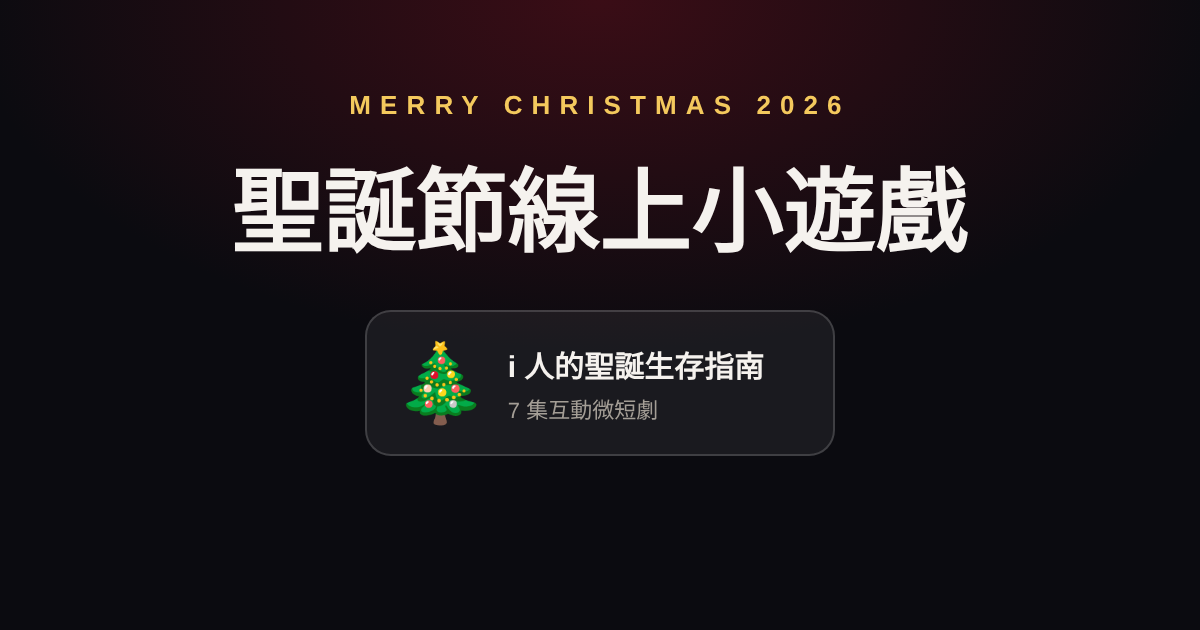
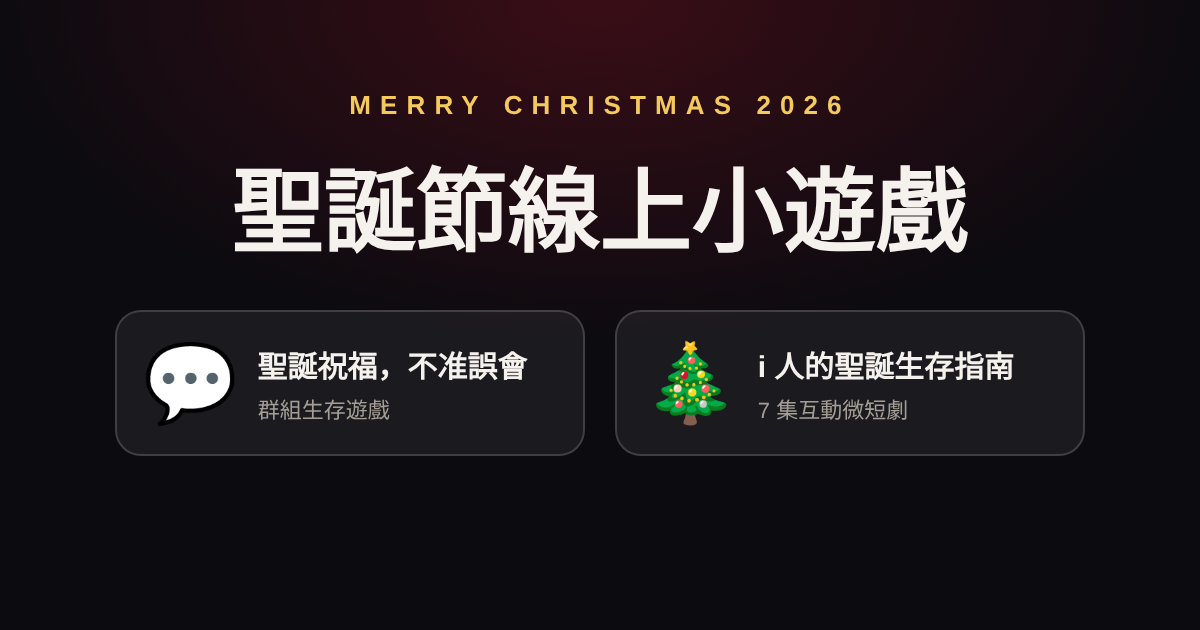
Add files via upload

diff --git a/xmas-message.html b/xmas-message.html
@@ -1,0 +1,229 @@
+<!DOCTYPE html>
+<html lang="zh-Hant">
+<head>
+<meta charset="UTF-8">
+<meta name="viewport" content="width=device-width, initial-scale=1, maximum-scale=1">
+<meta name="description" content="同一句聖誕快樂，阿嬤、二姑、主管、前任讀到的都不一樣。拼出一句讓全群組沒人誤會的祝福！">
+<meta property="og:type" content="website">
+<meta property="og:locale" content="zh_TW">
+<meta property="og:site_name" content="聖誕節線上小遊戲 2026">
+<meta property="og:title" content="聖誕祝福，不准誤會 💬｜群組生存遊戲">
+<meta property="og:description" content="同一句聖誕快樂，阿嬤、二姑、主管、前任讀到的都不一樣。拼出一句讓全群組沒人誤會的祝福！">
+<meta property="og:url" content="https://vuraly7-dev.github.io/xmas-2026/xmas-message.html">
+<meta property="og:image" content="https://vuraly7-dev.github.io/xmas-2026/og-message.png">
+<meta property="og:image:width" content="1200">
+<meta property="og:image:height" content="630">
+<meta name="twitter:card" content="summary_large_image">
+<meta name="twitter:title" content="聖誕祝福，不准誤會 💬｜群組生存遊戲">
+<meta name="twitter:description" content="同一句聖誕快樂，阿嬤、二姑、主管、前任讀到的都不一樣。拼出一句讓全群組沒人誤會的祝福！">
+<meta name="twitter:image" content="https://vuraly7-dev.github.io/xmas-2026/og-message.png">
+<meta name="theme-color" content="#0f2a20">
+<title>聖誕祝福，不准誤會｜群組生存遊戲</title>
+<link rel="preconnect" href="https://fonts.googleapis.com">
+<link href="https://fonts.googleapis.com/css2?family=Noto+Sans+TC:wght@400;500;700;900&family=Noto+Serif+TC:wght@900&display=swap" rel="stylesheet">
+<style>
+:root{--bg:#e9eef3;--me:#9be27a;--red:#d7263d;--green:#1f8a5b;--ink:#1c2228;--muted:#7a8590;--gold:#f2b632}
+*{box-sizing:border-box;margin:0;padding:0;-webkit-tap-highlight-color:transparent}
+html,body{height:100%}
+body{font-family:"Noto Sans TC",system-ui,sans-serif;color:var(--ink);background:#cfd8e0}
+.app{max-width:520px;height:100%;margin:0 auto;display:flex;flex-direction:column;background:var(--bg);position:relative;overflow:hidden}
+/* cover */
+.cover{position:absolute;inset:0;z-index:20;display:flex;flex-direction:column;justify-content:center;padding:28px 24px;
+  background:radial-gradient(ellipse at 50% 0%,#2a5a45,#0f2a20 70%);color:#fff;text-align:center}
+.cover .k{font-size:12px;letter-spacing:.3em;color:var(--gold)}
+.cover h1{font-family:"Noto Serif TC",serif;font-size:40px;line-height:1.3;margin:14px 0}
+.cover h1 em{font-style:normal;color:#ff6b7d}
+.cover p{line-height:1.9;color:#d6e6dd;font-size:15px}
+.demo{background:#ffffff14;border:1px solid #ffffff25;border-radius:16px;padding:14px;margin:22px 0;text-align:left;font-size:14px;line-height:1.8}
+.demo b{color:var(--gold)}
+.btn{display:block;width:100%;font:inherit;font-weight:700;font-size:16.5px;border:0;border-radius:14px;padding:15px;cursor:pointer;background:var(--red);color:#fff;box-shadow:0 8px 22px #d7263d55}
+.btn.ghost{background:transparent;color:inherit;border:1px solid currentColor;box-shadow:none;margin-top:9px;opacity:.85}
+.btn:disabled{background:#b9c2ca;box-shadow:none;cursor:default}
+.foot{font-size:11px;color:#8fb3a2;margin-top:16px;line-height:1.7}
+/* header */
+header{display:flex;align-items:center;gap:10px;padding:12px 14px;background:#2b3a46;color:#fff;flex:none}
+header .gi{width:38px;height:38px;border-radius:50%;background:#ffffff22;display:grid;place-items:center;font-size:20px}
+header b{display:block;font-size:15.5px}
+header span{font-size:12px;color:#b9c6d1}
+header .lv{margin-left:auto;font-size:12px;background:#ffffff1f;padding:4px 10px;border-radius:99px;white-space:nowrap}
+/* readers */
+.readers{display:flex;gap:6px;padding:10px 10px 8px;background:#f7f9fb;border-bottom:1px solid #d9e0e6;flex:none}
+.rd{flex:1;text-align:center;font-size:11.5px;color:var(--muted)}
+.rd .av{width:44px;height:44px;margin:0 auto 3px;border-radius:50%;background:#fff;border:2px solid #d9e0e6;display:grid;place-items:center;font-size:24px;position:relative;transition:border-color .3s}
+.rd .mood{position:absolute;right:-6px;bottom:-4px;font-size:17px}
+.rd.hap .av{border-color:#1f8a5b}.rd.ang .av{border-color:var(--red)}.rd.ok .av{border-color:#f2b632}
+/* chat */
+#chat{flex:1;overflow-y:auto;padding:14px 12px 8px}
+.sysm{text-align:center;font-size:12px;color:var(--muted);margin:4px 0 12px}
+.sysm span{background:#d6dee5;padding:4px 10px;border-radius:99px}
+.row{display:flex;gap:8px;margin-bottom:10px;animation:in .3s ease}
+@keyframes in{from{opacity:0;transform:translateY(6px)}}
+.row .a{width:32px;height:32px;border-radius:50%;background:#fff;display:grid;place-items:center;font-size:18px;flex:none}
+.row .nm{font-size:11.5px;color:var(--muted);margin-bottom:2px}
+.bub{background:#fff;border-radius:4px 16px 16px 16px;padding:8px 12px;font-size:15px;line-height:1.55;max-width:250px;box-shadow:0 1px 1px #0000000d}
+.row.me{justify-content:flex-end;align-items:flex-end;gap:6px}
+.row.me .bub{background:var(--me);border-radius:16px 4px 16px 16px;max-width:280px}
+.read{font-size:11px;color:var(--muted);white-space:nowrap}
+.typing{color:var(--muted);font-size:13px}
+/* composer */
+.comp{flex:none;background:#fff;border-top:1px solid #d9e0e6;padding:10px 12px 14px}
+.preview{min-height:44px;background:#f2f5f8;border-radius:12px;padding:10px 12px;font-size:15px;line-height:1.5;margin-bottom:8px;color:#9aa5af}
+.preview.full{color:var(--ink)}
+.slot{margin-bottom:7px}
+.slot .lab{font-size:11px;color:var(--muted);margin-bottom:4px;letter-spacing:.1em}
+.tiles{display:flex;gap:6px;overflow-x:auto;padding-bottom:2px;scrollbar-width:none}
+.tiles::-webkit-scrollbar{display:none}
+.tile{flex:none;font:inherit;font-size:13.5px;background:#f2f5f8;border:1.5px solid #dde4ea;border-radius:99px;padding:7px 12px;cursor:pointer;white-space:nowrap;color:var(--ink)}
+.tile.on{background:#2b3a46;border-color:#2b3a46;color:#fff}
+.sendrow{display:flex;gap:8px;align-items:center;margin-top:4px}
+.tries{font-size:12px;color:var(--muted);white-space:nowrap}
+/* result sheet */
+.sheet{position:absolute;left:0;right:0;bottom:0;z-index:15;background:#fff;border-radius:22px 22px 0 0;padding:20px 20px 22px;box-shadow:0 -10px 40px #0003;transform:translateY(110%);transition:transform .45s cubic-bezier(.2,1.1,.3,1)}
+.sheet.show{transform:none}
+.stars{font-size:38px;text-align:center;letter-spacing:6px}
+.sheet h2{text-align:center;font-size:21px;margin:4px 0 4px}
+.sheet p{text-align:center;color:var(--muted);font-size:14px;line-height:1.7;margin-bottom:14px}
+.sheet .btn.ghost{color:var(--ink)}
+.final{text-align:center}
+.final .big{font-family:"Noto Serif TC",serif;font-size:30px;margin:6px 0}
+.final .tt{display:inline-block;background:#2b3a46;color:#fff;border-radius:99px;padding:6px 16px;font-weight:700;margin:6px 0 10px}
+.lvls{display:flex;gap:8px;justify-content:center;margin:8px 0 16px}
+.lvls div{background:#f2f5f8;border-radius:12px;padding:8px 10px;font-size:12px;min-width:90px}
+.lvls b{display:block;font-size:15px;color:var(--gold)}
+.toast{position:fixed;left:50%;bottom:90px;transform:translateX(-50%) translateY(20px);opacity:0;background:#1c2228;color:#fff;padding:9px 16px;border-radius:99px;font-size:14px;transition:.3s;z-index:60;pointer-events:none;white-space:nowrap}
+.toast.show{opacity:1;transform:translateX(-50%)}
+</style>
+</head>
+<body>
+<div class="app" id="app">
+  <div class="cover" id="cover">
+    <div class="k">聖誕群組生存遊戲</div>
+    <h1>聖誕祝福，<br><em>不准誤會</em></h1>
+    <p>你要在群組裡發一則聖誕祝福。<br>問題是——<b>每個人讀到的意思都不一樣。</b></p>
+    <div class="demo">
+      你傳：「今年過得很充實 ❤」<br>
+      👵 阿嬤讀到：<b>充實就好</b><br>
+      💁♀ 二姑讀到：<b>充實？那有對象了沒？</b><br>
+      🧑🎤 表弟讀到：<b>好肉麻</b>
+    </div>
+    <p style="font-size:14px">拼出一句讓<b>群組裡沒有人誤會</b>的祝福。<br>三關：公司群組 → 同學會群組 → 家族群組</p>
+    <button class="btn" id="go" style="margin-top:22px">開始發訊息</button>
+    <div class="foot">純屬虛構娛樂・不讀取、不儲存任何資料・© 2026 liva</div>
+  </div>
+  <header><div class="gi" id="gi"></div><div><b id="gn"></b><span id="gs"></span></div><div class="lv" id="lv"></div></header>
+  <div class="readers" id="readers"></div>
+  <div id="chat"></div>
+  <div class="comp" id="comp"></div>
+  <div class="sheet" id="sheet"></div>
+</div>
+<div class="toast" id="toast"></div>
+
+<script>
+const shareUrl = () => /claude|anthropic|usercontent/.test(location.hostname) || location.protocol==="file:" ? "" : "\n"+location.origin+location.pathname;
+const LV = [{"name": "業務二部（含主管）", "icon": "💼", "sub": "公司群組・18 人", "readers": [["主管", "👔"], ["同事小君", "👩💻"], ["HR", "📋"], ["實習生", "🧑🎓"]], "slots": [[["各位辛苦了，聖誕快樂！", [[1, "有團隊意識"], [1, "你也辛苦了"], [1, "氣氛真好"], [0, "前輩好"]]], ["終於要放假了🎉", [[-2, "12/25 沒有放假"], [2, "懂"], [-1, "請依行事曆"], [1, "真的嗎！"]]], ["報告主管，聖誕快樂", [[2, "嗯，很好"], [-2, "馬屁精"], [0, "嗯"], [0, "學起來"]]], ["Merry Christmas everyone", [[0, "嗯"], [0, "好喔"], [1, "很國際化"], [1, "好潮"]]]], [["今年學到很多", [[1, "知道就好"], [0, "嗯"], [1, "有成長"], [1, "前輩好認真"]]], ["明年繼續衝業績！", [[2, "這才對"], [-2, "要衝你自己衝"], [0, ""], [-1, "壓力好大"]]], ["謝謝小君一直幫我", [[-1, "那我呢？"], [2, "不客氣💕"], [1, "團隊合作"], [0, ""]]], ["今天可以準時下班嗎", [[-2, "……"], [2, "拜託"], [0, "依規定可以"], [2, "拜託拜託"]]]], [["🎄", [[0, ""], [0, ""], [0, ""], [1, "可愛"]]], ["交換禮物準備好了！", [[0, "嗯"], [1, "我也是"], [2, "終於有人回應活動了"], [1, "我也準備了"]]], ["（貼圖：敬禮🫡）", [[1, "嗯"], [0, ""], [0, ""], [-1, "好老的貼圖"]]], ["明天的會議我會準時", [[2, "很好"], [-1, "幹嘛提會議"], [0, ""], [-1, "什麼會議？？"]]]]]}, {"name": "三年二班永遠的家", "icon": "🏫", "sub": "同學會群組・前任也在", "readers": [["前任", "💔"], ["班長", "📣"], ["班導", "👨🏫"], ["阿明", "🤪"]], "slots": [[["好久不見！聖誕快樂", [[0, "…好久不見"], [1, "好久不見！"], [1, "同學們好"], [1, "欸你還活著"]]], ["欸～大家還記得我嗎", [[-1, "怎麼可能忘記"], [1, "當然記得！"], [0, "記得記得"], [2, "記得你欠我 100"]]], ["老師聖誕快樂！", [[0, ""], [1, "老師好"], [2, "還記得老師，感動"], [-1, "又在拍馬屁"]]], ["Merry Xmas～", [[-1, "以前我們都這樣講…"], [0, "嗯"], [-1, "看不懂"], [1, "好喔"]]]], [["最近過得很好", [[-2, "沒有我過得很好是吧"], [1, "太好了"], [1, "老師很欣慰"], [0, "炫耀"]]], ["今年一個人過聖誕", [[1, "……我也是"], [2, "那來同學會啊！"], [-1, "要照顧好自己"], [1, "我陪你"]]], ["大家要不要辦同學會", [[0, "看情況"], [2, "終於有人說了！"], [1, "老師一定到"], [1, "有吃的就去"]]], ["最近在追一部微短劇", [[1, "我們以前也一起追劇"], [-1, "已讀"], [-1, "多讀書"], [2, "哪部！"]]]], [["❤", [[-2, "這顆愛心是給誰的？"], [0, ""], [1, "老師也愛你們"], [-1, "噁"]]], ["🙏", [[0, ""], [1, "🙏"], [1, "🙏"], [0, ""]]], ["@阿明 欠我的 100 還來", [[1, "哈，你一點都沒變"], [1, "哈哈哈"], [-1, "同學之間不要借錢"], [-1, "我們不是說好不提"]]], ["（你收回了一則訊息）", [[-2, "收回了什麼？？"], [-1, "？"], [0, ""], [2, "已截圖"]]]]]}, {"name": "相親相愛一家人", "icon": "👨👩👧👦", "sub": "家族群組・42 人", "readers": [["阿嬤", "👵"], ["二姑", "💁♀"], ["媽媽", "👩"], ["表弟", "🧑🎤"]], "slots": [[["各位家人聖誕快樂🎄", [[1, "聖誕節是啥？算了，乖孫有心"], [0, "嗯"], [1, "有記得群組，很好"], [-1, "好老派…"]]], ["Merry Xmas 🎅✨", [[-2, "看嘸啦，番仔字"], [0, "英文喔"], [0, "這是什麼意思"], [1, "可以"]]], ["阿嬤！聖誕快樂！", [[2, "我的乖孫！！"], [-1, "只跟阿嬤說？我呢"], [1, "孝順"], [0, "…"]]], ["（長輩圖：平安喜樂🌸）", [[2, "這張圖真水"], [1, "轉傳了"], [0, "你什麼時候變這樣"], [-2, "救命，長輩圖"]]]], [["今年過得很充實", [[1, "充實就好"], [-2, "充實？那有對象了沒？"], [0, "嗯"], [0, "好喔"]]], ["工作很忙但很開心", [[-1, "忙到都不回來"], [0, "賺多少？"], [-1, "忙到不回家喔"], [0, "社畜加油"]]], ["過年一定回家吃飯", [[2, "阿嬤煮你最愛吃的"], [-1, "回來我介紹對象給你"], [2, "你說的喔"], [0, "那我也回"]]], ["最近在學煮飯", [[1, "會煮飯好"], [2, "會煮飯，可以結婚了"], [0, "上次寄的水餃吃完了嗎"], [1, "教我"]]]], [["❤", [[1, "愛心"], [0, ""], [1, "媽媽也愛你"], [-1, "好肉麻"]]], ["（附上紅包 🧧）", [[1, "這孩子懂事"], [1, "有我的嗎"], [-1, "亂花錢"], [2, "我的呢我的呢"]]], ["祝大家平安健康", [[1, "平安就好"], [1, "大家都健康"], [1, "你也是"], [0, "好喔"]]], ["😂", [[-1, "笑什麼"], [-1, "在笑我嗎？"], [0, "？"], [2, "哈哈哈哈"]]]]]}];
+const SLOT = ["開頭","中段","結尾"];
+const $ = id => document.getElementById(id);
+const sleep = ms => new Promise(r=>setTimeout(r,ms));
+let cur=0, pick=[null,null,null], tries=0, busy=false, results=[];
+
+function moodOf(v){ return v>=1?["hap","😊"]:v===0?["ok","😐"]:["ang","😠"]; }
+
+function load(i){
+  cur=i; pick=[null,null,null]; tries=0; busy=false;
+  const L=LV[i];
+  $("gi").textContent=L.icon; $("gn").textContent=L.name; $("gs").textContent=L.sub; $("lv").textContent=`第 ${i+1} / ${LV.length} 關`;
+  $("readers").innerHTML=L.readers.map((r,k)=>`<div class="rd" id="rd${k}"><div class="av">${r[1]}<span class="mood" id="md${k}"></span></div>${r[0]}</div>`).join("");
+  $("chat").innerHTML=`<div class="sysm"><span>12 月 24 日 晚上 8:00</span></div><div class="sysm"><span>${["主管","班長","媽媽"][i]||"有人"}：今天大家記得說聖誕快樂喔～</span></div>`;
+  $("sheet").classList.remove("show");
+  renderComp();
+}
+
+function msgText(){ return pick.map((p,s)=>p===null?null:LV[cur].slots[s][p][0]); }
+function renderComp(){
+  const L=LV[cur], t=msgText(), full=t.every(x=>x!==null);
+  $("comp").innerHTML=`
+    <div class="preview ${full?"full":""}" id="pv">${t.some(x=>x!==null)? t.map(x=>x??"＿＿").join(" ") : "從下面三排各選一句，組成你的祝福"}</div>
+    ${L.slots.map((sl,s)=>`<div class="slot"><div class="lab">${SLOT[s]}</div><div class="tiles">${sl.map((tl,k)=>`<button class="tile ${pick[s]===k?"on":""}" data-s="${s}" data-k="${k}">${tl[0]}</button>`).join("")}</div></div>`).join("")}
+    <div class="sendrow"><span class="tries">已傳 ${tries} 次</span><button class="btn" id="send" ${full&&!busy?"":"disabled"} style="padding:12px">傳送 ➤</button></div>`;
+  $("comp").querySelectorAll(".tile").forEach(b=>b.onclick=()=>{ if(busy) return; pick[+b.dataset.s]=+b.dataset.k; renderComp(); });
+  $("send").onclick=send;
+}
+
+async function send(){
+  if(busy) return; busy=true; tries++;
+  const L=LV[cur], text=msgText().join(" ");
+  renderComp();
+  const chat=$("chat");
+  const me=document.createElement("div"); me.className="row me"; me.innerHTML=`<span class="read" id="rdc"></span><div class="bub">${text}</div>`;
+  chat.appendChild(me); chat.scrollTop=1e9;
+  L.readers.forEach((_,k)=>{ $("md"+k).textContent=""; $("rd"+k).className="rd"; });
+  // 計分
+  const sc=L.readers.map((_,r)=>pick.reduce((a,p,s)=>a+L.slots[s][p][1][r][0],0));
+  // 每位讀者挑出最強烈的解讀
+  const os=L.readers.map((_,r)=>{
+    let best=null; pick.forEach((p,s)=>{ const v=L.slots[s][p][1][r]; if(v[1] && (!best || Math.abs(v[0])>Math.abs(best[0]))) best=v; });
+    return best;
+  });
+  const order=L.readers.map((_,k)=>k).sort(()=>Math.random()-.5);
+  let n=0;
+  for(const r of order){
+    await sleep(650);
+    n++; $("rdc").textContent=`已讀 ${n}`;
+    const [cls,face]=moodOf(sc[r]);
+    $("rd"+r).className="rd "+cls; $("md"+r).textContent=face;
+    const line = os[r] ? os[r][1] : (sc[r]>=1?"聖誕快樂！":sc[r]===0?"（已讀）":"……");
+    const tail = sc[r]>=2?" 😍":sc[r]===1?" 😊":sc[r]===0?"":" 😠";
+    const row=document.createElement("div"); row.className="row";
+    row.innerHTML=`<div class="a">${L.readers[r][1]}</div><div><div class="nm">${L.readers[r][0]}</div><div class="bub">${line}${tail}</div></div>`;
+    chat.appendChild(row); chat.scrollTop=1e9;
+  }
+  await sleep(700);
+  const allHappy=sc.every(v=>v>=1), noAngry=sc.every(v=>v>=0);
+  const stars = allHappy?3:noAngry?2:0;
+  const angry = L.readers.filter((_,r)=>sc[r]<0).map(x=>x[0]);
+  if(stars){ results[cur]={stars,tries,text}; }
+  sheet(stars, angry);
+}
+
+function sheet(stars, angry){
+  const last = cur===LV.length-1;
+  const s=$("sheet");
+  if(stars===3){
+    s.innerHTML=`<div class="stars">⭐⭐⭐</div><h2>全員開心！</h2><p>群組外交大成功，傳了 ${tries} 次就讓所有人都滿意。</p>
+      <button class="btn" id="nx">${last?"看總成績 🎄":"下一個群組 ➤"}</button><button class="btn ghost" id="rt">再挑戰別的說法</button>`;
+  } else if(stars===2){
+    s.innerHTML=`<div class="stars">⭐⭐<span style="opacity:.2">⭐</span></div><h2>沒人生氣，但有人無感</h2><p>過關了！想拿三星，就要讓每個人都開心。</p>
+      <button class="btn" id="nx">${last?"看總成績 🎄":"下一個群組 ➤"}</button><button class="btn ghost" id="rt">再試一次拿三星</button>`;
+  } else {
+    s.innerHTML=`<div class="stars">💥</div><h2>群組炸了</h2><p>${angry.join("、")} 誤會了你的意思……<br>看看他們的回覆，換個說法再試一次。</p>
+      <button class="btn" id="rt">收回訊息，重新編輯</button>`;
+  }
+  s.classList.add("show");
+  if($("nx")) $("nx").onclick=()=> last? final() : load(cur+1);
+  $("rt").onclick=()=>{ s.classList.remove("show"); busy=false; renderComp(); };
+}
+
+function final(){
+  const total=results.reduce((a,r)=>a+(r?r.stars:0),0), tt=results.reduce((a,r)=>a+(r?r.tries:0),0);
+  const title= total>=9?"群組外交官":total>=7?"訊息公關達人":total>=6?"安全下莊的人":"建議已讀不回";
+  const s=$("sheet");
+  s.innerHTML=`<div class="final">
+    <div style="font-size:13px;color:var(--muted);letter-spacing:.2em">總成績</div>
+    <div class="big">⭐ ${total} / 9</div>
+    <div class="tt">${title}</div>
+    <div class="lvls">${LV.map((L,i)=>`<div>${L.icon} ${L.name.slice(0,4)}<b>${"⭐".repeat(results[i]?results[i].stars:0)}</b>傳了 ${results[i]?results[i].tries:0} 次</div>`).join("")}</div>
+    <button class="btn" id="sh">複製戰績，考考朋友 🎄</button>
+    <button class="btn ghost" id="again">從第一關重新開始</button>
+    <div style="font-size:11px;color:var(--muted);margin-top:12px">純屬虛構娛樂・© 2026 liva</div></div>`;
+  s.classList.add("show");
+  $("again").onclick=()=>{ results=[]; load(0); };
+  $("sh").onclick=async()=>{
+    const txt=`我在《聖誕祝福，不准誤會》拿到 ${total}/9 顆星，稱號「${title}」🎄\n總共傳了 ${tt} 次訊息才讓所有群組沒人誤會。\n家族群組最難，你敢挑戰嗎？${shareUrl()}`;
+    try{ await navigator.clipboard.writeText(txt); toast("已複製！貼給朋友比比看 🎄"); }catch(e){ toast("無法自動複製，截圖分享也可以 📸"); }
+  };
+}
+function toast(m){ const t=$("toast"); t.textContent=m; t.classList.add("show"); clearTimeout(t._h); t._h=setTimeout(()=>t.classList.remove("show"),2400); }
+$("go").onclick=()=>{ $("cover").style.display="none"; load(0); };
+</script>
+</body>
+</html>

diff --git a/index.html b/index.html
@@ -3,19 +3,19 @@
 <head>
 <meta charset="UTF-8">
 <meta name="viewport" content="width=device-width, initial-scale=1">
-<meta name="description" content="原創聖誕小遊戲：i 人的派對生存微短劇。手機點開就能玩！">
+<meta name="description" content="兩款原創聖誕小遊戲：讓全群組沒人誤會的聖誕祝福，和 i 人的派對生存微短劇。手機點開就能玩！">
 <meta property="og:type" content="website">
 <meta property="og:locale" content="zh_TW">
 <meta property="og:site_name" content="聖誕節線上小遊戲 2026">
 <meta property="og:title" content="聖誕節線上小遊戲 2026">
-<meta property="og:description" content="原創聖誕小遊戲：i 人的派對生存微短劇。手機點開就能玩！">
+<meta property="og:description" content="兩款原創聖誕小遊戲：讓全群組沒人誤會的聖誕祝福，和 i 人的派對生存微短劇。手機點開就能玩！">
 <meta property="og:url" content="https://vuraly7-dev.github.io/xmas-2026/">
 <meta property="og:image" content="https://vuraly7-dev.github.io/xmas-2026/og-home.png">
 <meta property="og:image:width" content="1200">
 <meta property="og:image:height" content="630">
 <meta name="twitter:card" content="summary_large_image">
 <meta name="twitter:title" content="聖誕節線上小遊戲 2026">
-<meta name="twitter:description" content="原創聖誕小遊戲：i 人的派對生存微短劇。手機點開就能玩！">
+<meta name="twitter:description" content="兩款原創聖誕小遊戲：讓全群組沒人誤會的聖誕祝福，和 i 人的派對生存微短劇。手機點開就能玩！">
 <meta name="twitter:image" content="https://vuraly7-dev.github.io/xmas-2026/og-home.png">
 <meta name="theme-color" content="#0b0b10">
 <title>聖誕節線上小遊戲 2026</title>
@@ -39,6 +39,7 @@
 <div class="wrap">
   <div class="k">MERRY CHRISTMAS 2026</div>
   <h1>聖誕節線上小遊戲</h1>
+  <a class="card" href="./xmas-message.html"><div class="e">💬</div><div><b>聖誕祝福，不准誤會</b><span>同一句話，每個人讀到的都不一樣</span></div></a>
   <a class="card" href="./i-person.html"><div class="e">🎄</div><div><b>i 人的聖誕生存指南</b><span>7 集互動微短劇，守住你的社交電量</span></div></a>
   <footer>純屬虛構娛樂・不讀取、不儲存任何資料<br>© 2026 liva</footer>
 </div>

diff --git a/README.md b/README.md
@@ -2,6 +2,7 @@
 
 🎮 立即遊玩：https://vuraly7-dev.github.io/xmas-2026/
 
+- 💬 [聖誕祝福，不准誤會](./xmas-message.html)：同一句話，每個人讀到的都不一樣，拼出讓全群組沒人誤會的祝福
 - 🎄 [i 人的聖誕生存指南](./i-person.html)：7 集互動微短劇，守住你的社交電量
 
 本專案內容純屬虛構，僅供娛樂。遊戲不會讀取或儲存任何玩家資料。
